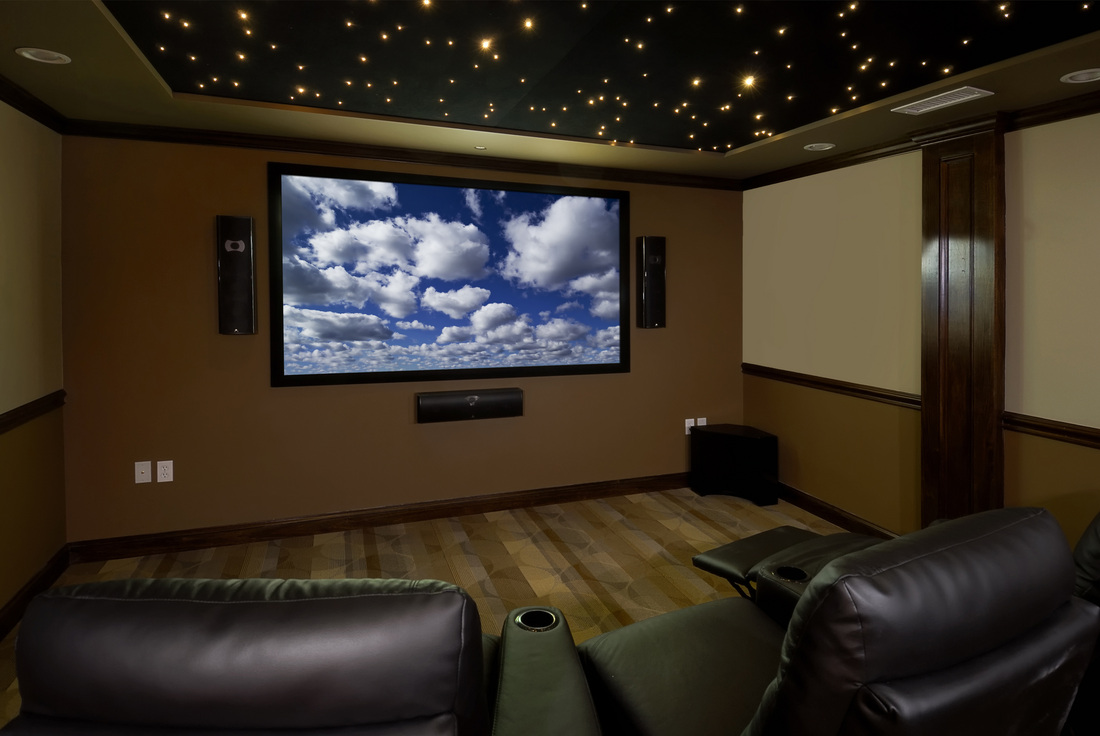
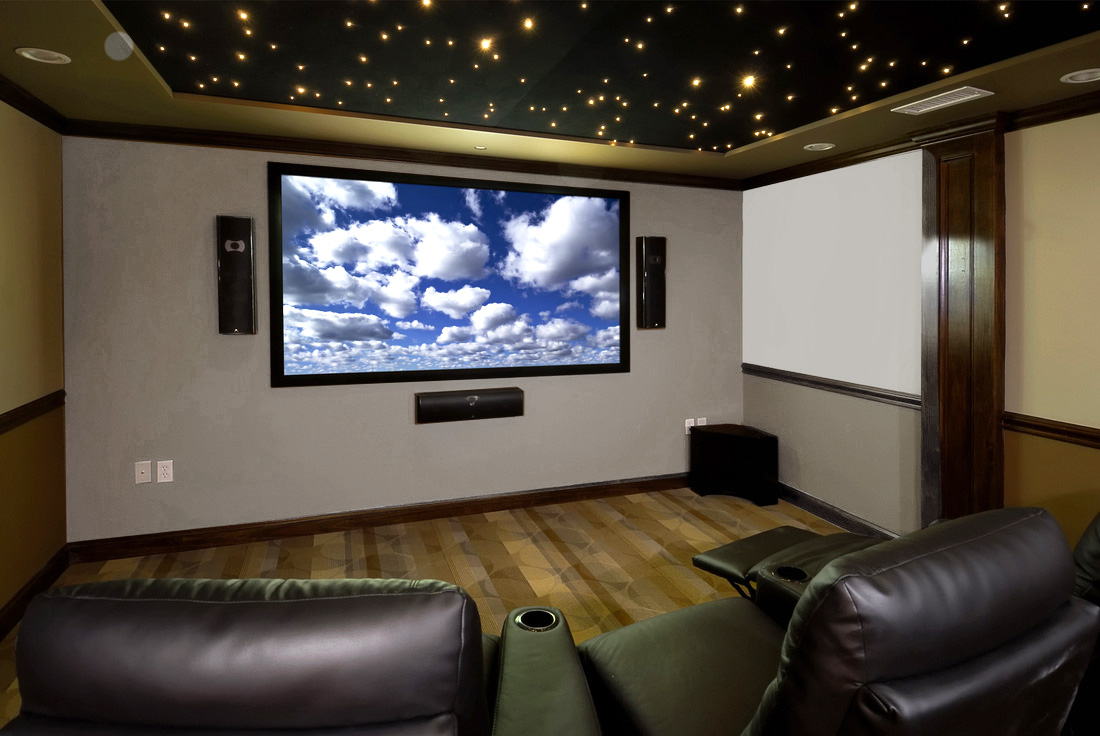
Add files via upload
updated images, added google reviews, functional navbar for all pages

diff --git a/index.html b/index.html
@@ -45,7 +45,7 @@
         <!-- Slides -->
         <div class="slide-background active" style="background-image: url('images/hero1.jpg');"></div>
         <div class="slide-background" style="background-image: url('images/hero2.jpg');"></div>
-        <div class="slide-background" style="background-image: url('images/hero3.jpg');"></div>
+        <div class="slide-background" style="background-image: url('images/shades-roller.jpg');"></div>
 
         <!-- Overlay text/buttons (unchanged from before) -->
         <div class="hero-text">
@@ -66,20 +66,20 @@
   <!-- Services Section -->
   <section class="collapsed-content" id="services">
 
-    <a href="lighting.html" class="box-link service-box" style="background-image: url('images/lighting.jpg')" data-tilt data-tilt-max="5" data-tilt-scale="1.05" data-tilt-reverse="true">
-      <div class="overlay"><p>Lighting</p></div>
+    <a href="lighting.html" class="box-link service-box" style="background-image: url('images/lighting-gallery-3a.jpg')" data-tilt data-tilt-max="5" data-tilt-scale="1.05" data-tilt-reverse="true">
+      <div class="overlay"><p>Lighting & Lighting Control</p></div>
     </a>
 
     <a href="motorized-shades.html" class="box-link service-box" style="background-image: url('images/shades.jpg')" data-tilt data-tilt-max="5" data-tilt-scale="1.05" data-tilt-reverse="true">
-      <div class="overlay"><p>Motorized Shades</p></div>
+      <div class="overlay"><p>Motorized Lutron Shades</p></div>
     </a>
 
+    <a href="electrical-integration.html" class="box-link service-box" style="background-image: url('images/integration.jpg')" data-tilt data-tilt-max="5" data-tilt-scale="1.05" data-tilt-reverse="true">
+      <div class="overlay"><p>Electrical Services</p></div>
+    </a>
+    
     <a href="audio-video.html" class="box-link service-box" style="background-image: url('images/remote.jpg')" data-tilt data-tilt-max="5" data-tilt-scale="1.05" data-tilt-reverse="true">
-      <div class="overlay"><p>Audio-Video</p></div>
-    </a>
-
-    <a href="electrical-installation.html" class="box-link service-box" style="background-image: url('images/installation.jpg')" data-tilt data-tilt-max="5" data-tilt-scale="1.05" data-tilt-reverse="true">
-      <div class="overlay"><p>Electrical Installation</p></div>
+      <div class="overlay"><p>Audio-Video & Integration</p></div>
     </a>
 
     <script src="https://cdnjs.cloudflare.com/ajax/libs/vanilla-tilt/1.8.1/vanilla-tilt.min.js"></script>
@@ -104,13 +104,19 @@
   
     <div class="features-grid">
         <div class="feature-box">
-        <h3>Certified Expertise</h3>
-        <p>All services are performed by a licensed, certified Master Electrician for safety and compliance you can trust.</p>
-    </div>
-    <div class="feature-box">
-      <h3>Smart Integration</h3>
-      <p>Lighting, shades, audio-video, security, and connectivity—seamlessly integrated.</p>
-    </div>
+          <h3>Certified Expertise</h3>
+          <p>All services are performed by a licensed, certified Master Electrician for safety and compliance you can trust.</p>
+        </div>
+        
+        <div class="feature-box">
+          <h3>Lutron Dealer</h3>
+          <p>Lighting, shades, audio-video, security, and connectivity—seamlessly integrated.</p>
+        </div>
+
+        <div class="feature-box">
+          <h3>Smart Integration</h3>
+          <p>Lighting, shades, audio-video, security, and connectivity—seamlessly integrated.</p>
+        </div>
     <div class="feature-box">
       <h3>Future-Ready Design</h3>
       <p>Always ahead on tech & trends, we wire your home for tomorrow.</p>
@@ -120,7 +126,7 @@
       <p>We stand by our work with one of the best guarantees in the industry.</p>
     </div>
     <div class="feature-box">
-      <h3>Free Consultation</h3>
+      <h3>Personalized Consultation</h3>
       <p>No-pressure estimates tailored to your unique space and needs.</p>
     </div>
   </div>
@@ -136,7 +142,7 @@
       <li>Always ahead on tech & trends.</li>
       <li>Certified team with manufacturer qualifications.</li>
       <li>Experienced in custom project installations.</li>
-      <li><strong>10.5 —</strong> We love what we do.</li>
+
     </ul>
   </div>
 </section>
@@ -144,22 +150,10 @@
 
     <!-- Testimonials Carousel -->
     <section class="testimonials">
-        <div class="testimonial-container">
-            <div class="testimonial-slide active">
-            “Intellis upgraded our entire home — smart and seamless!”
-            </div>
-            <div class="testimonial-slide">
-            “Professional team, top-notch service!”
-            </div>
-            <div class="testimonial-slide">
-            “Highly recommend for any smart home work.”
-            </div>
-
-            <div class="testimonial-nav">
-            <button class="testimonial-prev">&#10094;</button>
-            <button class="testimonial-next">&#10095;</button>
-            </div>
-        </div>
+        
+      <!-- Elfsight Google Reviews | Untitled Google Reviews -->
+      <script src="https://static.elfsight.com/platform/platform.js" async></script>
+      <div class="elfsight-app-f45054f1-e8c0-4fc0-9a3e-1a1e806a9441" data-elfsight-app-lazy></div>
     </section>
 
 

diff --git a/electrical-integration.html b/electrical-integration.html
@@ -3,7 +3,7 @@
 <head>
   <meta charset="UTF-8" />
   <meta name="viewport" content="width=device-width, initial-scale=1.0"/>
-  <title>Audio-Video | Intellis Vision</title>
+  <title>Electrical Integration | Intellis Vision</title>
   <link rel="stylesheet" href="styles/services.css" />
   <link rel="stylesheet" href="styles/navbar.css" />
   <link rel="stylesheet" href="styles/gallery.css" />
@@ -35,53 +35,50 @@
   </div>
 
   <!-- Hero Section -->
-  <section class="hero" style="background-image: url('images/placeholder-hero-av.jpg');"></section>
+  <section class="hero" style="background-image: url('images/placeholder-hero.jpg');"></section>
   <div class="hero-text">
-    <h1>Audio-Video Solutions</h1>
-    <p>Seamless Integration for Home Entertainment & Security</p>
+    <h1>Electrical Services</h1>
+    <p>Safe, Certified, and Custom Tailored to Your Needs</p>
   </div>
 
-  <section class="content-block left">
-    <div class="text">
-      <h2>TV Mounting & Home Theatre</h2>
-      <p>
-        Create an immersive entertainment space with professionally mounted TVs and customized home theatre systems. 
-        Enjoy cinematic experiences from the comfort of your home, with optimal viewing angles, surround sound setups, and hidden cabling.
-      </p>
-    </div>
-    <div class="image" style="background-image: url('images/placeholder-av1.jpg');"></div>
-  </section>
-
   <section class="content-block right">
-    <div class="image" style="background-image: url('images/placeholder-av2.jpg');"></div>
+    <div class="image" style="background-image: url('images/placeholder-electric2.jpg');"></div>
     <div class="text">
-      <h2>Invisible Speakers & Distributed Audio</h2>
+      <h2>Residential and Commercial Wiring</h2>
       <p>
-        Keep your space elegant while still enjoying premium sound. Our invisible speaker and distributed audio systems deliver rich, 
-        balanced sound throughout your home without compromising interior aesthetics.
+        From new construction to remodels, we handle all your wiring needs. Our team provides structured cabling for data, power, and smart systems.
       </p>
     </div>
+  </section>
+  
+  <section class="content-block left">
+    <div class="text">
+      <h2>Car Chargers</h2>
+      <p>
+        Future-proof your home with EV car charger installations. Whether it’s Tesla, Level 2, or universal ports, we ensure efficient and code-compliant setups.
+      </p>
+    </div>
+    <div class="image" style="background-image: url('images/placeholder-electric1.jpg');"></div>
   </section>
 
   <section class="content-block left">
     <div class="text">
-      <h2>Surveillance</h2>
+      <h2>Applicance Hookup</h2>
       <p>
-        Protect your property with discrete and intelligent surveillance systems. From entry points to perimeter monitoring, 
-        our integrated solutions give you peace of mind with remote viewing and motion-triggered alerts.
+        Blah blah blah
       </p>
     </div>
-    <div class="image" style="background-image: url('images/placeholder-audio-video4.jpg');"></div>
+    <div class="image" style="background-image: url('images/placeholder-electric1.jpg');"></div>
   </section>
+  
 
   <section class="gallery-section">
     <h2>Gallery</h2>
     <div class="gallery-wrapper">
       <button class="nav prev">&#10094;</button>
       <div class="gallery-slider">
-        <img src="images/av-gallery-1.jpg" class="gallery-image" alt="AV Project 1" />
-        <img src="images/av-gallery-2.jpg" class="gallery-image" alt="AV Project 2" />
-        <img src="images/av-gallery-3.jpg" class="gallery-image" alt="AV Project 3" />
+        <img src="images/electric-installation-gallery-2.jpg" class="gallery-image" alt="Installation Project 2" />
+        <img src="images/electric-installation-gallery-4.jpg" class="gallery-image" alt="Installation Project 4" />
       </div>
       <button class="nav next">&#10095;</button>
     </div>

diff --git a/lighting.html b/lighting.html
@@ -12,14 +12,27 @@
 </head>
 <body>
   <!-- Navbar -->
-        <div class="navbar">
-      <div class="logo">
-        <a href="index.html">
-          <img src="images/iv-logo.png" alt="Intellis Vision Logo" style="height: 40px; vertical-align: middle; margin-right: 10px;" />
-          Intellis Vision Inc.
-        </a>
-      </div>
+  <div class="navbar">
+    <div class="logo">
+      <a href="index.html#home">
+        <img src="images/iv-logo.png" alt="Intellis Vision Logo" style="height: 40px; vertical-align: middle; margin-right: 10px;" />
+        Intellis Vision Inc.
+      </a>
     </div>
+
+    <div class="menu-toggle" id="mobile-menu">
+      <span></span>
+      <span></span>
+      <span></span>
+    </div>
+
+    <ul class="nav-links">
+      <li><a href="index.html#home">Home</a></li>
+      <li><a href="index.html#services">Services</a></li>
+      <li><a href="index.html#about">About Us</a></li>
+      <li><a href="index.html#contact">Contact</a></li>
+    </ul>
+  </div>
   
   
 
@@ -54,6 +67,17 @@
     </div>
   </section>
 
+    <section class="content-block left">
+    <div class="text">
+      <h2>Motorized Fans</h2>
+      <p>
+        Enjoy year-round comfort with ceiling fan installation, and take control of your home with smart automation systems that integrate lights, climate, and security.
+      </p>
+    </div>
+    <div class="image" style="background-image: url('images/placeholder-electric3.jpg');"></div>
+  </section>
+  
+
 
   <section class="gallery-section">
     <h2>Gallery</h2>
@@ -67,6 +91,7 @@
         <img src="images/lighting-gallery-3a.jpg" class="gallery-image" alt="Lighting Project 3" />
         <img src="images/lighting-gallery-10.jpg" class="gallery-image" alt="Lighting Project 10" />
         <img src="images/lighting-gallery-4.jpg" class="gallery-image" alt="Lighting Project 4" />
+        <img src="images/electric-installation-gallery-5.jpg" class="gallery-image" alt="Installation Project 5" />
         <img src="images/lighting-gallery-5.jpg" class="gallery-image" alt="Lighting Project 5" />
         <img src="images/lighting-gallery-12.jpg" class="gallery-image" alt="Lighting Project 12" />
         <img src="images/lighting-gallery-6.jpg" class="gallery-image" alt="Lighting Project 6" />
@@ -85,6 +110,21 @@
 
 
   <script src="scripts/gallery.js"></script>
+  <script>
+    const menuToggle = document.getElementById('mobile-menu');
+    const navLinks = document.querySelector('.nav-links');
+
+    menuToggle.addEventListener('click', () => {
+      navLinks.classList.toggle('active');
+    });
+
+    document.querySelectorAll(".nav-links a").forEach(link => {
+      link.addEventListener("click", () => {
+        navLinks.classList.remove("active");
+      });
+    });
+  </script>
+
 
 </body>
 </html>

diff --git a/motorized-shades.html b/motorized-shades.html
@@ -14,12 +14,26 @@
   <!-- Navbar -->
   <div class="navbar">
     <div class="logo">
-      <a href="index.html">
+      <a href="index.html#home">
         <img src="images/iv-logo.png" alt="Intellis Vision Logo" style="height: 40px; vertical-align: middle; margin-right: 10px;" />
         Intellis Vision Inc.
       </a>
     </div>
+
+    <div class="menu-toggle" id="mobile-menu">
+      <span></span>
+      <span></span>
+      <span></span>
+    </div>
+
+    <ul class="nav-links">
+      <li><a href="index.html#home">Home</a></li>
+      <li><a href="index.html#services">Services</a></li>
+      <li><a href="index.html#about">About Us</a></li>
+      <li><a href="index.html#contact">Contact</a></li>
+    </ul>
   </div>
+
 
   <!-- Hero -->
 <section class="hero video-hero">
@@ -74,6 +88,21 @@
   </section>
 
   <script src="scripts/gallery.js"></script>
+  <script>
+    const menuToggle = document.getElementById('mobile-menu');
+    const navLinks = document.querySelector('.nav-links');
+
+    menuToggle.addEventListener('click', () => {
+      navLinks.classList.toggle('active');
+    });
+
+    document.querySelectorAll(".nav-links a").forEach(link => {
+      link.addEventListener("click", () => {
+        navLinks.classList.remove("active");
+      });
+    });
+  </script>
+
 
 </body>
 </html>
